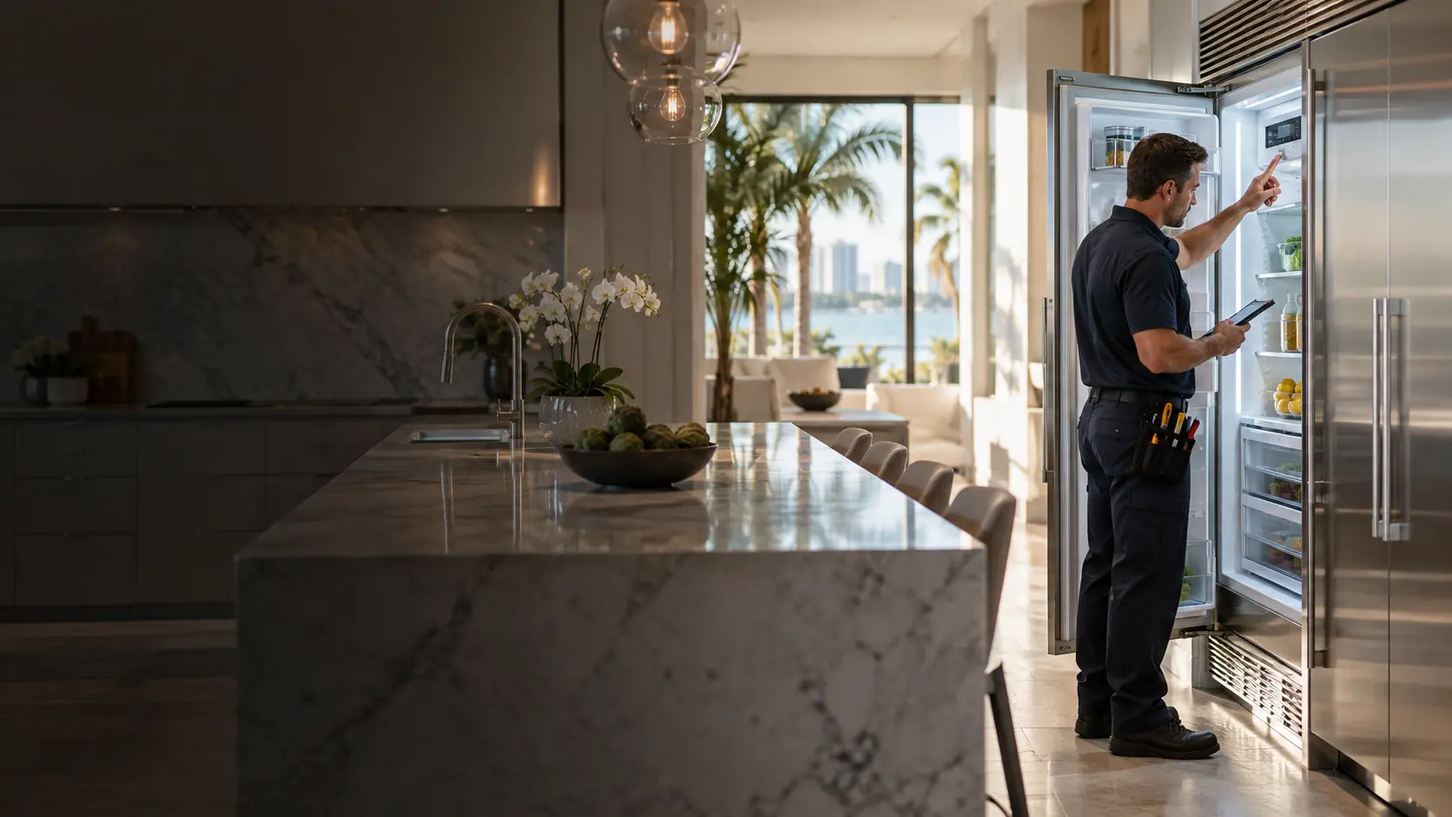
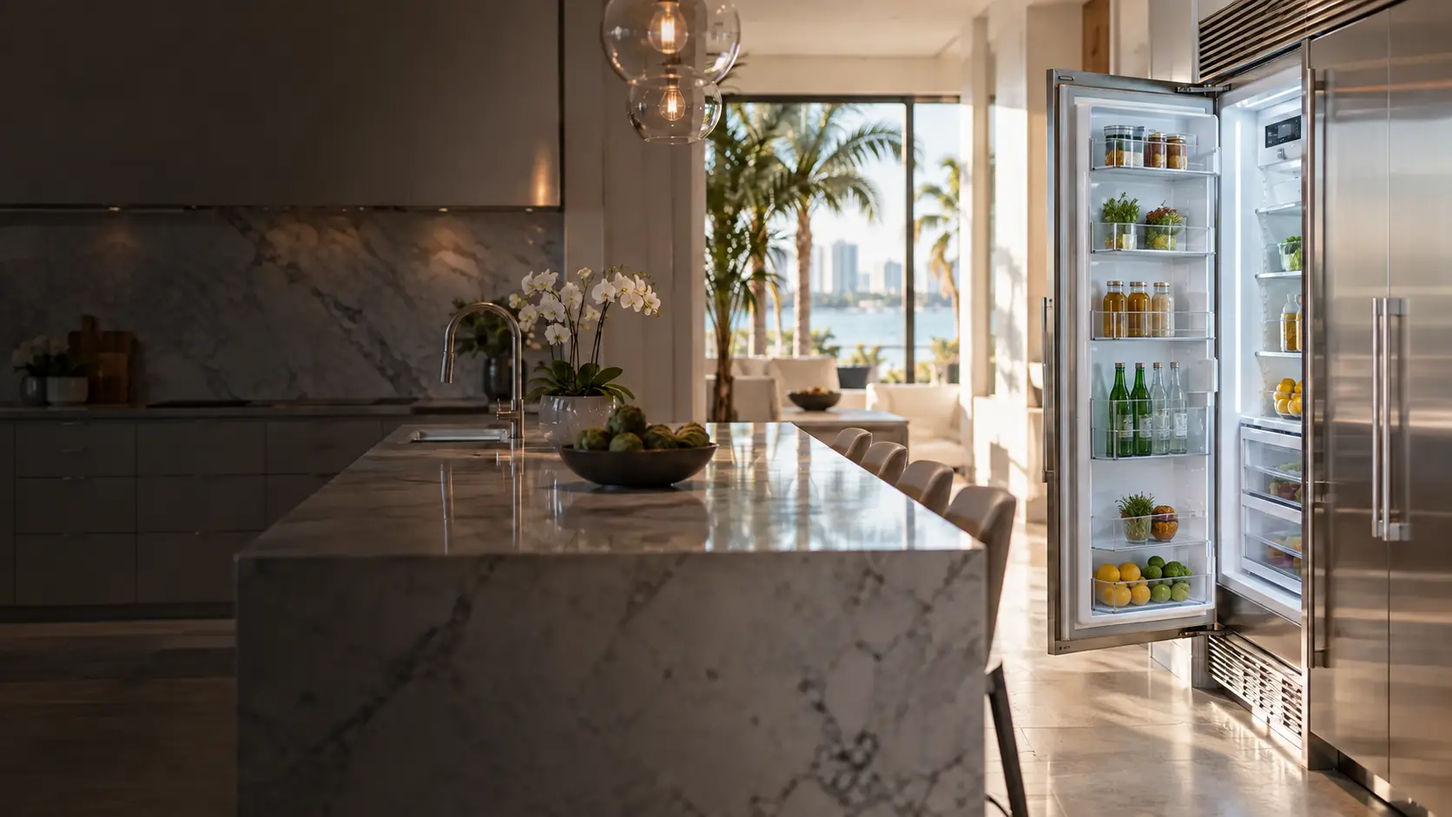
Replace technician photos and add appliance brands pages

diff --git a/es/high-end-appliance-repair/index.html b/es/high-end-appliance-repair/index.html
@@ -6,7 +6,7 @@
 <script type="application/ld+json">{"@context":"https://schema.org","@graph":[{"@type":"HomeAndConstructionBusiness","@id":"https://arsben.com/#business","name":"Appliance Repair Service by Ben","url":"https://arsben.com/","telephone":"+19549321006","email":"benjaminsolis@mac.com","areaServed":["Broward County, Florida","Palm Beach County, Florida","Miami-Dade County, Florida"]},{"@type":"Service","name":"Reparación de Electrodomésticos de Alta Gama","serviceType":"Reparación de Electrodomésticos de Alta Gama","provider":{"@id":"https://arsben.com/#business"},"areaServed":["Broward County, Florida","Palm Beach County, Florida","Miami-Dade County, Florida"],"url":"https://arsben.com/es/high-end-appliance-repair/"}]}</script>
 <style>:root{--navy:#07121f;--blue:#188de8;--sky:#72c7ff;--white:#fff;--soft:#f3f7fb;--ink:#142234;--muted:#637385;--line:#dbe5ee}*{box-sizing:border-box}html{scroll-behavior:smooth}body{margin:0;color:var(--ink);font-family:Arial,Helvetica,sans-serif;line-height:1.6}a{color:inherit;text-decoration:none}.wrap{width:min(1160px,calc(100% - 38px));margin:auto}header{position:sticky;top:0;z-index:10;background:rgba(7,18,31,.96);color:#fff;border-bottom:1px solid rgba(255,255,255,.12)}nav{min-height:78px;display:flex;align-items:center;justify-content:space-between;gap:20px}.brand{font-weight:900;font-size:1.18rem;letter-spacing:-.03em;white-space:nowrap}.brand em{color:var(--sky);font-style:normal}.navlinks{display:flex;align-items:center;gap:18px;font-size:.88rem;font-weight:750}.lang{border:1px solid rgba(255,255,255,.35);border-radius:999px;padding:7px 11px}.call{background:var(--blue);color:#fff;padding:10px 16px;border-radius:999px}.hero{min-height:610px;color:#fff;display:grid;align-items:center;background-image:linear-gradient(90deg,rgba(3,10,18,.96) 0%,rgba(3,10,18,.76) 42%,rgba(3,10,18,.12) 78%),url('/assets/high-end-appliance-repair-hero.webp');background-size:cover;background-position:center}.hero-content{max-width:720px;padding:92px 0}.eyebrow{color:var(--sky);font-size:.78rem;font-weight:900;letter-spacing:.16em}.hero h1{font-size:clamp(3rem,7vw,6.5rem);line-height:.9;letter-spacing:-.065em;margin:17px 0 24px}.lead{font-size:clamp(1.08rem,2vw,1.35rem);color:#dce8f3;max-width:680px}.hero-actions{display:flex;gap:12px;flex-wrap:wrap;margin-top:28px}.btn{display:inline-block;background:var(--blue);color:#fff;padding:13px 19px;border-radius:999px;font-weight:900}.ghost{display:inline-block;border:1px solid rgba(255,255,255,.4);padding:12px 18px;border-radius:999px;font-weight:800}.crumbs{padding:18px 0;color:var(--muted);font-size:.84rem}section{padding:82px 0}.split{display:grid;grid-template-columns:1fr 1fr;gap:62px;align-items:start}h2{font-size:clamp(2rem,4vw,3.6rem);line-height:1;letter-spacing:-.045em;margin:12px 0 22px}.copy{font-size:1.08rem;color:var(--muted)}.problem-list{display:grid;grid-template-columns:1fr 1fr;gap:12px;padding:0;list-style:none}.problem-list li{background:var(--soft);border:1px solid var(--line);border-radius:13px;padding:15px 16px;font-weight:750}.process{background:var(--navy);color:#fff}.process .copy{color:#c8d4e0}.steps{display:grid;grid-template-columns:repeat(3,1fr);gap:16px;margin-top:35px}.step{padding:26px;border:1px solid rgba(255,255,255,.15);border-radius:16px;background:rgba(255,255,255,.04)}.step b{color:var(--sky);font-size:.78rem;letter-spacing:.12em}.step h3{margin:10px 0 6px}.step p{color:#c6d3df;margin:0}.area{background:var(--soft)}.counties{display:flex;flex-wrap:wrap;gap:10px}.county{background:#fff;border:1px solid var(--line);border-radius:999px;padding:10px 15px;font-weight:800}.cta{background:linear-gradient(135deg,#0b78d0,#156baa);color:#fff}.contact{display:grid;grid-template-columns:.8fr 1.2fr;gap:52px}.form{display:grid;grid-template-columns:1fr 1fr;gap:11px;background:#fff;padding:25px;border-radius:18px}.form input,.form textarea{width:100%;border:1px solid #cfdbe6;border-radius:11px;padding:13px}.form textarea{min-height:115px}.full{grid-column:1/-1}.form button{border:0;cursor:pointer}footer{padding:28px 0;background:#050d17;color:#a8b6c5}.footer-row{display:flex;justify-content:space-between;gap:20px;flex-wrap:wrap}@media(max-width:800px){.navlinks a:not(.lang):not(.call){display:none}.brand{font-size:.9rem}.hero{min-height:540px;background-position:66% center}.split,.contact{grid-template-columns:1fr}.steps{grid-template-columns:1fr}.problem-list{grid-template-columns:1fr}.form{grid-template-columns:1fr}.full{grid-column:auto}section{padding:62px 0}}</style></head>
 <body><header><nav class="wrap"><a class="brand" href="/es/">Appliance Repair Service <em>by</em> Ben</a><div class="navlinks"><a href="/es/#services">Servicios</a><a href="#area">Área de servicio</a><a class="lang" href="/high-end-appliance-repair/">EN</a><a class="call" href="tel:+19549321006">Llama 954-932-1006</a></div></nav></header>
-<main><section class="hero"><div class="wrap"><div class="hero-content"><div class="eyebrow">SERVICIO DE EQUIPOS PREMIUM EMPOTRADOS</div><h1>Servicio cuidadoso para electrodomésticos de alta gama.</h1><p class="lead">Diagnóstico detallado para refrigeración, cocina, lavaplatos, lavandería, cavas de vino y máquinas de hielo premium.</p><div class="hero-actions"><a class="btn" href="tel:+19549321006">Llama 954-932-1006</a><a class="ghost" href="#contact">Solicita servicio</a></div></div></div></section>
+<main><section class="hero"><div class="wrap"><div class="hero-content"><div class="eyebrow">SERVICIO DE EQUIPOS PREMIUM EMPOTRADOS</div><h1>Servicio cuidadoso para electrodomésticos de alta gama.</h1><p class="lead">Diagnóstico detallado para refrigeración, cocina, lavaplatos, lavandería, cavas de vino y máquinas de hielo premium.</p><div class="hero-actions"><a class="btn" href="tel:+19549321006">Llama 954-932-1006</a><a class="ghost" href="/es/appliance-brands/">Ver marcas</a></div></div></div></section>
 <div class="wrap crumbs"><a href="/es/">Appliance Repair Service by Ben</a> / Reparación de Electrodomésticos de Alta Gama</div>
 <section><div class="wrap split"><div><div class="eyebrow">SERVICIO DE EQUIPOS PREMIUM EMPOTRADOS</div><h2>Problemas que atendemos</h2><p class="copy">Los equipos premium forman parte del diseño y funcionamiento del hogar. Trabajamos con cuidado, protegemos los acabados cercanos y explicamos las opciones antes de continuar.</p></div><ul class="problem-list"><li>Refrigeración y congeladores empotrados</li><li>Hornos y cocinas de estilo profesional</li><li>Lavaplatos integrados</li><li>Sistemas premium de lavandería</li><li>Cavas de vino y máquinas de hielo</li><li>Controles complejos y problemas de instalación</li></ul></div></section>
 <section class="process"><div class="wrap"><div class="eyebrow">APPLIANCE REPAIR SERVICE</div><h2>Servicio claro y cuidadoso</h2><p class="copy">Comenzamos escuchando lo que está haciendo el equipo. Después revisamos el problema, explicamos lo encontrado y hablamos de los próximos pasos.</p><div class="steps"><div class="step"><b>01</b><h3>Describe el problema</h3><p>Dinos qué equipo tienes, qué está haciendo y cuándo comenzó.</p></div><div class="step"><b>02</b><h3>Coordinamos el servicio</h3><p>Confirmamos el área de servicio y conversamos sobre el horario disponible.</p></div><div class="step"><b>03</b><h3>Diagnóstico y opciones</h3><p>Se revisa el equipo y se explican las opciones antes de seguir.</p></div></div></div></section>

diff --git a/high-end-appliance-repair/index.html b/high-end-appliance-repair/index.html
@@ -6,7 +6,7 @@
 <script type="application/ld+json">{"@context":"https://schema.org","@graph":[{"@type":"HomeAndConstructionBusiness","@id":"https://arsben.com/#business","name":"Appliance Repair Service by Ben","url":"https://arsben.com/","telephone":"+19549321006","email":"benjaminsolis@mac.com","areaServed":["Broward County, Florida","Palm Beach County, Florida","Miami-Dade County, Florida"]},{"@type":"Service","name":"High-End Appliance Repair","serviceType":"High-End Appliance Repair","provider":{"@id":"https://arsben.com/#business"},"areaServed":["Broward County, Florida","Palm Beach County, Florida","Miami-Dade County, Florida"],"url":"https://arsben.com/high-end-appliance-repair/"}]}</script>
 <style>:root{--navy:#07121f;--blue:#188de8;--sky:#72c7ff;--white:#fff;--soft:#f3f7fb;--ink:#142234;--muted:#637385;--line:#dbe5ee}*{box-sizing:border-box}html{scroll-behavior:smooth}body{margin:0;color:var(--ink);font-family:Arial,Helvetica,sans-serif;line-height:1.6}a{color:inherit;text-decoration:none}.wrap{width:min(1160px,calc(100% - 38px));margin:auto}header{position:sticky;top:0;z-index:10;background:rgba(7,18,31,.96);color:#fff;border-bottom:1px solid rgba(255,255,255,.12)}nav{min-height:78px;display:flex;align-items:center;justify-content:space-between;gap:20px}.brand{font-weight:900;font-size:1.18rem;letter-spacing:-.03em;white-space:nowrap}.brand em{color:var(--sky);font-style:normal}.navlinks{display:flex;align-items:center;gap:18px;font-size:.88rem;font-weight:750}.lang{border:1px solid rgba(255,255,255,.35);border-radius:999px;padding:7px 11px}.call{background:var(--blue);color:#fff;padding:10px 16px;border-radius:999px}.hero{min-height:610px;color:#fff;display:grid;align-items:center;background-image:linear-gradient(90deg,rgba(3,10,18,.96) 0%,rgba(3,10,18,.76) 42%,rgba(3,10,18,.12) 78%),url('/assets/high-end-appliance-repair-hero.webp');background-size:cover;background-position:center}.hero-content{max-width:720px;padding:92px 0}.eyebrow{color:var(--sky);font-size:.78rem;font-weight:900;letter-spacing:.16em}.hero h1{font-size:clamp(3rem,7vw,6.5rem);line-height:.9;letter-spacing:-.065em;margin:17px 0 24px}.lead{font-size:clamp(1.08rem,2vw,1.35rem);color:#dce8f3;max-width:680px}.hero-actions{display:flex;gap:12px;flex-wrap:wrap;margin-top:28px}.btn{display:inline-block;background:var(--blue);color:#fff;padding:13px 19px;border-radius:999px;font-weight:900}.ghost{display:inline-block;border:1px solid rgba(255,255,255,.4);padding:12px 18px;border-radius:999px;font-weight:800}.crumbs{padding:18px 0;color:var(--muted);font-size:.84rem}section{padding:82px 0}.split{display:grid;grid-template-columns:1fr 1fr;gap:62px;align-items:start}h2{font-size:clamp(2rem,4vw,3.6rem);line-height:1;letter-spacing:-.045em;margin:12px 0 22px}.copy{font-size:1.08rem;color:var(--muted)}.problem-list{display:grid;grid-template-columns:1fr 1fr;gap:12px;padding:0;list-style:none}.problem-list li{background:var(--soft);border:1px solid var(--line);border-radius:13px;padding:15px 16px;font-weight:750}.process{background:var(--navy);color:#fff}.process .copy{color:#c8d4e0}.steps{display:grid;grid-template-columns:repeat(3,1fr);gap:16px;margin-top:35px}.step{padding:26px;border:1px solid rgba(255,255,255,.15);border-radius:16px;background:rgba(255,255,255,.04)}.step b{color:var(--sky);font-size:.78rem;letter-spacing:.12em}.step h3{margin:10px 0 6px}.step p{color:#c6d3df;margin:0}.area{background:var(--soft)}.counties{display:flex;flex-wrap:wrap;gap:10px}.county{background:#fff;border:1px solid var(--line);border-radius:999px;padding:10px 15px;font-weight:800}.cta{background:linear-gradient(135deg,#0b78d0,#156baa);color:#fff}.contact{display:grid;grid-template-columns:.8fr 1.2fr;gap:52px}.form{display:grid;grid-template-columns:1fr 1fr;gap:11px;background:#fff;padding:25px;border-radius:18px}.form input,.form textarea{width:100%;border:1px solid #cfdbe6;border-radius:11px;padding:13px}.form textarea{min-height:115px}.full{grid-column:1/-1}.form button{border:0;cursor:pointer}footer{padding:28px 0;background:#050d17;color:#a8b6c5}.footer-row{display:flex;justify-content:space-between;gap:20px;flex-wrap:wrap}@media(max-width:800px){.navlinks a:not(.lang):not(.call){display:none}.brand{font-size:.9rem}.hero{min-height:540px;background-position:66% center}.split,.contact{grid-template-columns:1fr}.steps{grid-template-columns:1fr}.problem-list{grid-template-columns:1fr}.form{grid-template-columns:1fr}.full{grid-column:auto}section{padding:62px 0}}</style></head>
 <body><header><nav class="wrap"><a class="brand" href="/">Appliance Repair Service <em>by</em> Ben</a><div class="navlinks"><a href="/#services">Services</a><a href="#area">Service area</a><a class="lang" href="/es/high-end-appliance-repair/">ES</a><a class="call" href="tel:+19549321006">Call 954-932-1006</a></div></nav></header>
-<main><section class="hero"><div class="wrap"><div class="hero-content"><div class="eyebrow">PREMIUM BUILT-IN APPLIANCE SERVICE</div><h1>Careful service for high-end appliances.</h1><p class="lead">Thoughtful diagnostics for premium built-in refrigeration, cooking, dishwashing, laundry, wine cooling and ice-making systems.</p><div class="hero-actions"><a class="btn" href="tel:+19549321006">Call 954-932-1006</a><a class="ghost" href="#contact">Request service</a></div></div></div></section>
+<main><section class="hero"><div class="wrap"><div class="hero-content"><div class="eyebrow">PREMIUM BUILT-IN APPLIANCE SERVICE</div><h1>Careful service for high-end appliances.</h1><p class="lead">Thoughtful diagnostics for premium built-in refrigeration, cooking, dishwashing, laundry, wine cooling and ice-making systems.</p><div class="hero-actions"><a class="btn" href="tel:+19549321006">Call 954-932-1006</a><a class="ghost" href="/appliance-brands/">View appliance brands</a></div></div></div></section>
 <div class="wrap crumbs"><a href="/">Appliance Repair Service by Ben</a> / High-End Appliance Repair</div>
 <section><div class="wrap split"><div><div class="eyebrow">PREMIUM BUILT-IN APPLIANCE SERVICE</div><h2>Common problems we service</h2><p class="copy">Premium appliances are integrated into the design and function of the home. We approach them carefully, protect the surrounding finishes and explain the available options before proceeding.</p></div><ul class="problem-list"><li>Built-in refrigeration and freezers</li><li>Professional-style ovens and ranges</li><li>Integrated dishwashers</li><li>Premium laundry systems</li><li>Wine coolers and ice makers</li><li>Complex controls and installation-related issues</li></ul></div></section>
 <section class="process"><div class="wrap"><div class="eyebrow">APPLIANCE REPAIR SERVICE</div><h2>Clear, careful appliance service</h2><p class="copy">We begin by listening to what the appliance is doing. Then we inspect the problem, explain what we find and discuss the next step.</p><div class="steps"><div class="step"><b>01</b><h3>Describe the problem</h3><p>Tell us which appliance you have, what it is doing and when the problem began.</p></div><div class="step"><b>02</b><h3>Schedule service</h3><p>We confirm your service area and discuss available scheduling.</p></div><div class="step"><b>03</b><h3>Diagnosis and options</h3><p>The appliance is inspected and the available options are explained before moving forward.</p></div></div></div></section>

diff --git a/appliance-brands/index.html b/appliance-brands/index.html
@@ -1,0 +1,6 @@
+<!doctype html><html lang="en"><head><meta charset="utf-8"><meta name="viewport" content="width=device-width,initial-scale=1">
+<title>High-End Appliance Brands We Service | South Florida</title><meta name="description" content="Service for Miele, Sub-Zero, Wolf, Thermador, Viking, Bosch and other premium appliance brands across Broward, Palm Beach and Miami-Dade."><meta name="robots" content="index,follow,max-image-preview:large"><link rel="canonical" href="https://arsben.com/appliance-brands/"><link rel="alternate" hreflang="en" href="https://arsben.com/appliance-brands/"><link rel="alternate" hreflang="es" href="https://arsben.com/es/appliance-brands/"><link rel="alternate" hreflang="x-default" href="https://arsben.com/appliance-brands/">
+<meta property="og:type" content="website"><meta property="og:title" content="High-End Appliance Brands We Service"><meta property="og:description" content="Premium appliance service across Broward, Palm Beach and Miami-Dade."><meta property="og:url" content="https://arsben.com/appliance-brands/"><meta property="og:image" content="https://arsben.com/assets/high-end-appliance-repair-hero.webp">
+<script type="application/ld+json">{"@context":"https://schema.org","@type":"Service","name":"High-End Appliance Brand Repair","provider":{"@type":"HomeAndConstructionBusiness","name":"Appliance Repair Service by Ben","telephone":"+19549321006","url":"https://arsben.com/"},"areaServed":["Broward County, Florida","Palm Beach County, Florida","Miami-Dade County, Florida"],"url":"https://arsben.com/appliance-brands/"}</script>
+<style>:root{--navy:#07121f;--blue:#188de8;--sky:#72c7ff;--soft:#f3f7fb;--ink:#142234;--muted:#637385;--line:#dbe5ee}*{box-sizing:border-box}body{margin:0;color:var(--ink);font-family:Arial,Helvetica,sans-serif;line-height:1.6}a{color:inherit;text-decoration:none}.wrap{width:min(1100px,calc(100% - 38px));margin:auto}header{background:var(--navy);color:#fff;position:sticky;top:0;z-index:5}nav{min-height:78px;display:flex;align-items:center;justify-content:space-between;gap:16px}.brand{font-weight:900;font-size:1.18rem}.brand em{color:var(--sky);font-style:normal}.nav{display:flex;align-items:center;gap:16px}.pill,.btn{border-radius:999px;padding:10px 16px;font-weight:850}.pill{border:1px solid #647181}.btn{background:var(--blue);color:#fff}.hero{color:#fff;min-height:520px;display:grid;align-items:center;background:linear-gradient(90deg,rgba(3,10,18,.96),rgba(3,10,18,.72) 48%,rgba(3,10,18,.1)),url('/assets/high-end-appliance-repair-hero.webp') center/cover}.hero div div{max-width:720px}.eyebrow{color:var(--sky);font-weight:900;letter-spacing:.15em;font-size:.78rem}.hero h1{font-size:clamp(3rem,7vw,6rem);line-height:.92;letter-spacing:-.06em;margin:18px 0}.lead{font-size:1.2rem;color:#e2ebf4}.actions{display:flex;gap:12px;flex-wrap:wrap;margin-top:26px}main section:not(.hero){padding:76px 0}h2{font-size:clamp(2rem,4vw,3.4rem);line-height:1;letter-spacing:-.04em;margin:0 0 15px}.intro{max-width:750px;color:var(--muted);font-size:1.08rem}.brands{display:grid;grid-template-columns:repeat(4,1fr);gap:14px;margin-top:34px}.brand-card{background:var(--soft);border:1px solid var(--line);padding:23px;border-radius:14px;font-size:1.08rem;font-weight:900}.note{margin-top:30px;border-left:4px solid var(--blue);padding:14px 18px;background:#edf6fd;color:#405268}.cta{background:var(--navy);color:#fff}.cta p{color:#c7d3df}.cta .btn{display:inline-block;margin-top:12px}footer{padding:28px 0;background:#040b13;color:#a8b6c5}@media(max-width:720px){.brands{grid-template-columns:repeat(2,1fr)}.nav>a:first-child{display:none}.brand{font-size:.92rem}.hero{min-height:500px;background-position:65% center}}</style></head>
+<body><header><nav class="wrap"><a class="brand" href="/">Appliance Repair Service <em>by</em> Ben</a><div class="nav"><a href="/high-end-appliance-repair/">High-End Repair</a><a class="pill" href="/es/appliance-brands/">ES</a><a class="btn" href="tel:+19549321006">Call 954-932-1006</a></div></nav></header><main><section class="hero"><div class="wrap"><div><div class="eyebrow">PREMIUM APPLIANCE SERVICE</div><h1>High-end brands we service.</h1><p class="lead">Careful diagnosis and repair for premium kitchen and laundry appliances throughout South Florida.</p><div class="actions"><a class="btn" href="tel:+19549321006">Call a specialist</a><a class="pill" href="#brands">See the brands</a></div></div></div></section><section id="brands"><div class="wrap"><div class="eyebrow">APPLIANCE BRANDS</div><h2>Premium and luxury appliances</h2><p class="intro">From built-in refrigeration and professional cooking equipment to dishwashers, laundry systems, wine coolers and ice makers, Ben services many of the names found in South Florida homes.</p><div class="brands"><div class="brand-card">Miele</div><div class="brand-card">Sub-Zero</div><div class="brand-card">Wolf</div><div class="brand-card">Thermador</div><div class="brand-card">Viking</div><div class="brand-card">Bosch</div><div class="brand-card">KitchenAid</div><div class="brand-card">JennAir</div><div class="brand-card">Monogram</div><div class="brand-card">Fisher &amp; Paykel</div><div class="brand-card">Dacor</div><div class="brand-card">Cove</div><div class="brand-card">ASKO</div><div class="brand-card">Liebherr</div><div class="brand-card">Gaggenau</div><div class="brand-card">And other brands</div></div><p class="note"><strong>Have a different brand or model?</strong> Call <a href="tel:+19549321006">954-932-1006</a> to confirm service availability. Brand names identify appliances commonly serviced and do not imply factory authorization.</p></div></section><section class="cta"><div class="wrap"><div class="eyebrow">BROWARD · PALM BEACH · MIAMI-DADE</div><h2>Tell Ben what your appliance is doing.</h2><p>Have the brand, model number and a short description of the problem ready when you call.</p><a class="btn" href="tel:+19549321006">Speak with a specialist now</a></div></section></main><footer><div class="wrap">© 2026 Appliance Repair Service by Ben · South Florida</div></footer></body></html>

diff --git a/es/appliance-brands/index.html b/es/appliance-brands/index.html
@@ -1,0 +1,3 @@
+<!doctype html><html lang="es"><head><meta charset="utf-8"><meta name="viewport" content="width=device-width,initial-scale=1">
+<title>Marcas de Electrodomésticos de Alta Gama | Sur de Florida</title><meta name="description" content="Servicio para Miele, Sub-Zero, Wolf, Thermador, Viking, Bosch y otras marcas premium en Broward, Palm Beach y Miami-Dade."><meta name="robots" content="index,follow,max-image-preview:large"><link rel="canonical" href="https://arsben.com/es/appliance-brands/"><link rel="alternate" hreflang="es" href="https://arsben.com/es/appliance-brands/"><link rel="alternate" hreflang="en" href="https://arsben.com/appliance-brands/"><link rel="alternate" hreflang="x-default" href="https://arsben.com/appliance-brands/"><meta property="og:type" content="website"><meta property="og:title" content="Marcas de Electrodomésticos de Alta Gama"><meta property="og:description" content="Servicio de electrodomésticos premium en Broward, Palm Beach y Miami-Dade."><meta property="og:url" content="https://arsben.com/es/appliance-brands/"><meta property="og:image" content="https://arsben.com/assets/high-end-appliance-repair-hero.webp"><style>:root{--navy:#07121f;--blue:#188de8;--sky:#72c7ff;--soft:#f3f7fb;--ink:#142234;--muted:#637385;--line:#dbe5ee}*{box-sizing:border-box}body{margin:0;color:var(--ink);font-family:Arial,Helvetica,sans-serif;line-height:1.6}a{color:inherit;text-decoration:none}.wrap{width:min(1100px,calc(100% - 38px));margin:auto}header{background:var(--navy);color:#fff;position:sticky;top:0;z-index:5}nav{min-height:78px;display:flex;align-items:center;justify-content:space-between;gap:16px}.brand{font-weight:900;font-size:1.18rem}.brand em{color:var(--sky);font-style:normal}.nav{display:flex;align-items:center;gap:16px}.pill,.btn{border-radius:999px;padding:10px 16px;font-weight:850}.pill{border:1px solid #647181}.btn{background:var(--blue);color:#fff}.hero{color:#fff;min-height:520px;display:grid;align-items:center;background:linear-gradient(90deg,rgba(3,10,18,.96),rgba(3,10,18,.72) 48%,rgba(3,10,18,.1)),url('/assets/high-end-appliance-repair-hero.webp') center/cover}.hero div div{max-width:720px}.eyebrow{color:var(--sky);font-weight:900;letter-spacing:.15em;font-size:.78rem}.hero h1{font-size:clamp(3rem,7vw,6rem);line-height:.92;letter-spacing:-.06em;margin:18px 0}.lead{font-size:1.2rem;color:#e2ebf4}.actions{display:flex;gap:12px;flex-wrap:wrap;margin-top:26px}main section:not(.hero){padding:76px 0}h2{font-size:clamp(2rem,4vw,3.4rem);line-height:1;letter-spacing:-.04em;margin:0 0 15px}.intro{max-width:750px;color:var(--muted);font-size:1.08rem}.brands{display:grid;grid-template-columns:repeat(4,1fr);gap:14px;margin-top:34px}.brand-card{background:var(--soft);border:1px solid var(--line);padding:23px;border-radius:14px;font-size:1.08rem;font-weight:900}.note{margin-top:30px;border-left:4px solid var(--blue);padding:14px 18px;background:#edf6fd;color:#405268}.cta{background:var(--navy);color:#fff}.cta p{color:#c7d3df}.cta .btn{display:inline-block;margin-top:12px}footer{padding:28px 0;background:#040b13;color:#a8b6c5}@media(max-width:720px){.brands{grid-template-columns:repeat(2,1fr)}.nav>a:first-child{display:none}.brand{font-size:.92rem}.hero{min-height:500px;background-position:65% center}}</style></head>
+<body><header><nav class="wrap"><a class="brand" href="/es/">Appliance Repair Service <em>by</em> Ben</a><div class="nav"><a href="/es/high-end-appliance-repair/">Alta Gama</a><a class="pill" href="/appliance-brands/">EN</a><a class="btn" href="tel:+19549321006">Llama 954-932-1006</a></div></nav></header><main><section class="hero"><div class="wrap"><div><div class="eyebrow">SERVICIO DE ELECTRODOMÉSTICOS PREMIUM</div><h1>Marcas de alta gama que reparamos.</h1><p class="lead">Diagnóstico y reparación cuidadosa para electrodomésticos premium de cocina y lavandería en el sur de Florida.</p><div class="actions"><a class="btn" href="tel:+19549321006">Habla con un especialista</a><a class="pill" href="#brands">Ver las marcas</a></div></div></div></section><section id="brands"><div class="wrap"><div class="eyebrow">MARCAS DE ELECTRODOMÉSTICOS</div><h2>Equipos premium y de lujo</h2><p class="intro">Ben repara muchas de las marcas que se encuentran en los hogares del sur de Florida, desde refrigeración empotrada y equipos profesionales de cocina hasta lavaplatos, lavandería, cavas de vino y máquinas de hielo.</p><div class="brands"><div class="brand-card">Miele</div><div class="brand-card">Sub-Zero</div><div class="brand-card">Wolf</div><div class="brand-card">Thermador</div><div class="brand-card">Viking</div><div class="brand-card">Bosch</div><div class="brand-card">KitchenAid</div><div class="brand-card">JennAir</div><div class="brand-card">Monogram</div><div class="brand-card">Fisher &amp; Paykel</div><div class="brand-card">Dacor</div><div class="brand-card">Cove</div><div class="brand-card">ASKO</div><div class="brand-card">Liebherr</div><div class="brand-card">Gaggenau</div><div class="brand-card">Y otras marcas</div></div><p class="note"><strong>¿Tienes otra marca o modelo?</strong> Llama al <a href="tel:+19549321006">954-932-1006</a> para confirmar la disponibilidad del servicio. Los nombres identifican marcas que se reparan comúnmente y no implican autorización de fábrica.</p></div></section><section class="cta"><div class="wrap"><div class="eyebrow">BROWARD · PALM BEACH · MIAMI-DADE</div><h2>Cuéntale a Ben qué está haciendo tu equipo.</h2><p>Ten a mano la marca, el número de modelo y una breve descripción del problema.</p><a class="btn" href="tel:+19549321006">Habla con un especialista ahora</a></div></section></main><footer><div class="wrap">© 2026 Appliance Repair Service by Ben · Sur de Florida</div></footer></body></html>

diff --git a/es/index.html b/es/index.html
@@ -48,7 +48,7 @@ footer{background:#07121f;color:#aab6c2;padding:31px 0;font-size:.9rem}.footer-r
 <article class="card"><span class="num">02</span><h3 data-i18n="s2t">Hornos, Estufas y Cocinas</h3><p data-i18n="s2p">Problemas de calor, quemadores, encendido y controles.</p><a href="/es/oven-range-repair/">Detalles de hornos y estufas →</a></article>
 <article class="card"><span class="num">03</span><h3 data-i18n="s3t">Lavadoras y Secadoras</h3><p data-i18n="s3p">Problemas de drenaje, centrifugado, calor y ciclos.</p><a href="/es/washer-dryer-repair/">Detalles de lavadoras y secadoras →</a></article>
 <article class="card"><span class="num">04</span><h3 data-i18n="s4t">Lavaplatos</h3><p data-i18n="s4p">Problemas de limpieza, drenaje, fugas y encendido.</p><a href="/es/dishwasher-repair/">Detalles de lavaplatos →</a></article>
-<article class="card"><span class="num">05</span><h3 data-i18n="s5t">Electrodomésticos de Alta Gama</h3><p data-i18n="s5p">Diagnóstico cuidadoso para cocinas premium, equipos empotrados y especializados.</p><a href="/es/high-end-appliance-repair/">Detalles de equipos de alta gama →</a></article>
+<article class="card"><span class="num">05</span><h3 data-i18n="s5t">Electrodomésticos de Alta Gama</h3><p data-i18n="s5p">Diagnóstico cuidadoso para cocinas premium, equipos empotrados y especializados.</p><a href="/es/high-end-appliance-repair/">Detalles de reparación →</a><br><a href="/es/appliance-brands/">Ver marcas que reparamos →</a></article>
 <article class="card"><span class="num">06</span><h3 data-i18n="s6t">Microondas y Trituradores</h3><p data-i18n="s6p">Reparación de microondas empotrados y trituradores de basura.</p></article>
 </div></div></section>
 <section class="premium"><div class="wrap premium-grid"><div><div class="eyebrow" data-i18n="whyEye">Por Qué Elegirnos</div><h2 data-i18n="whyTitle">Trabajo cuidadoso. Respuestas claras.</h2><p class="sub" data-i18n="whyText">Tu hogar y tus electrodomésticos merecen atención profesional. Nos enfocamos en encontrar el problema, explicar las opciones y hacer que tu equipo vuelva a funcionar.</p></div><div class="feature"><h2 data-i18n="premiumTitle">Servicio premium sin complicaciones.</h2><p data-i18n="premiumText">Habla directamente con Ben y programa el servicio para tu hogar.</p><div class="check"><b>✓</b><span data-i18n="c1">Reparación residencial</span></div><div class="check"><b>✓</b><span data-i18n="c2">Electrodomésticos de alta gama y uso diario</span></div><div class="check"><b>✓</b><span data-i18n="c3">Servicio en el sur de Florida</span></div></div></div></section>

diff --git a/index.html b/index.html
@@ -48,7 +48,7 @@ footer{background:#07121f;color:#aab6c2;padding:31px 0;font-size:.9rem}.footer-r
 <article class="card"><span class="num">02</span><h3 data-i18n="s2t">Ovens, Stoves & Ranges</h3><p data-i18n="s2p">Heating, burner, ignition, and control issues.</p><a href="/oven-range-repair/">Oven and range repair details →</a></article>
 <article class="card"><span class="num">03</span><h3 data-i18n="s3t">Washers & Dryers</h3><p data-i18n="s3p">Drainage, spinning, heating, and cycle problems.</p><a href="/washer-dryer-repair/">Washer and dryer repair details →</a></article>
 <article class="card"><span class="num">04</span><h3 data-i18n="s4t">Dishwashers</h3><p data-i18n="s4p">Cleaning, draining, leaking, and starting problems.</p><a href="/dishwasher-repair/">Dishwasher repair details →</a></article>
-<article class="card"><span class="num">05</span><h3 data-i18n="s5t">High-End Appliances</h3><p data-i18n="s5p">Careful diagnostics for premium built-in kitchens and specialty appliances.</p><a href="/high-end-appliance-repair/">High-end appliance repair details →</a></article>
+<article class="card"><span class="num">05</span><h3 data-i18n="s5t">High-End Appliances</h3><p data-i18n="s5p">Careful diagnostics for premium built-in kitchens and specialty appliances.</p><a href="/high-end-appliance-repair/">High-end repair details →</a><br><a href="/appliance-brands/">View brands we service →</a></article>
 <article class="card"><span class="num">06</span><h3 data-i18n="s6t">Microwaves & Disposals</h3><p data-i18n="s6p">Built-in microwave and garbage-disposal repairs.</p></article>
 </div></div></section>
 <section class="premium"><div class="wrap premium-grid"><div><div class="eyebrow" data-i18n="whyEye">Why ARSBen</div><h2 data-i18n="whyTitle">Careful work. Clear answers.</h2><p class="sub" data-i18n="whyText">Your home and appliances deserve professional attention. We focus on finding the problem, explaining the options, and getting your appliance working again.</p></div><div class="feature"><h2 data-i18n="premiumTitle">Premium service without the runaround.</h2><p data-i18n="premiumText">Speak directly with ARSBen and schedule service for your home.</p><div class="check"><b>✓</b><span data-i18n="c1">Residential appliance repair</span></div><div class="check"><b>✓</b><span data-i18n="c2">High-end and everyday appliances</span></div><div class="check"><b>✓</b><span data-i18n="c3">Service across South Florida</span></div></div></div></section>
